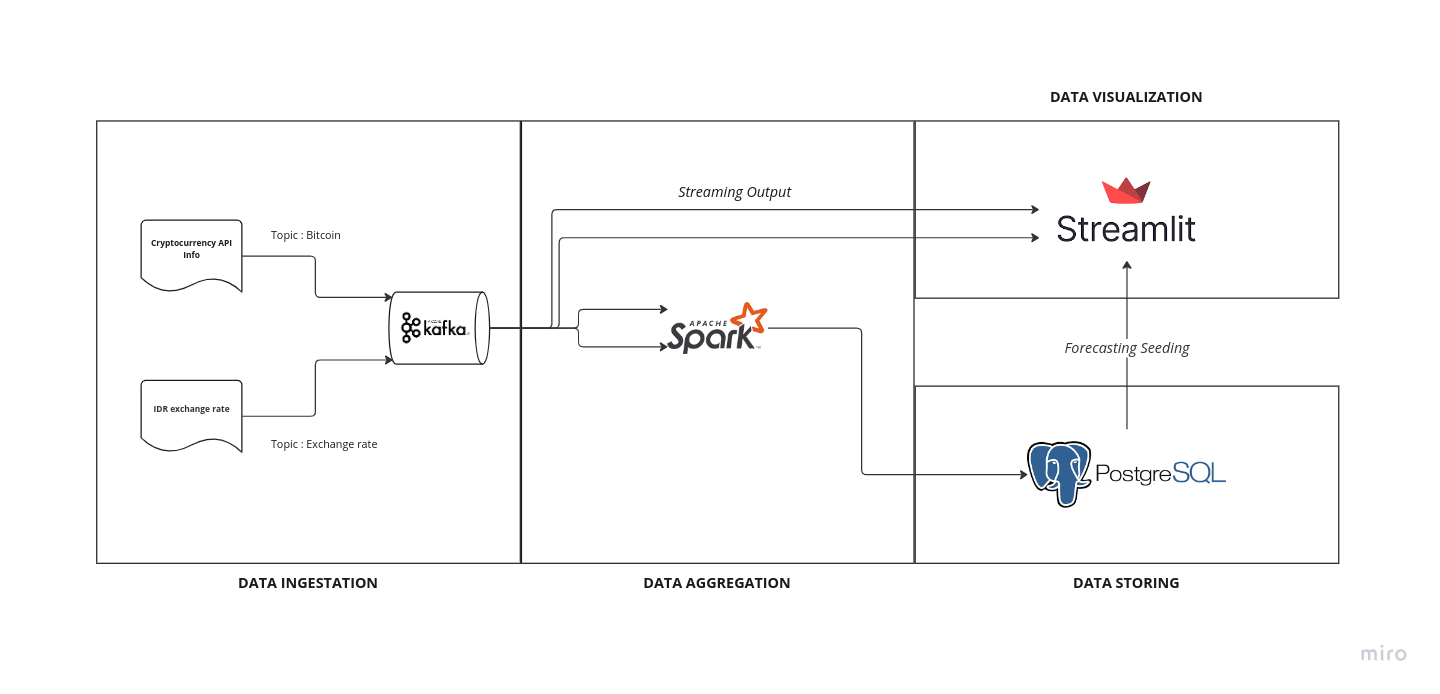
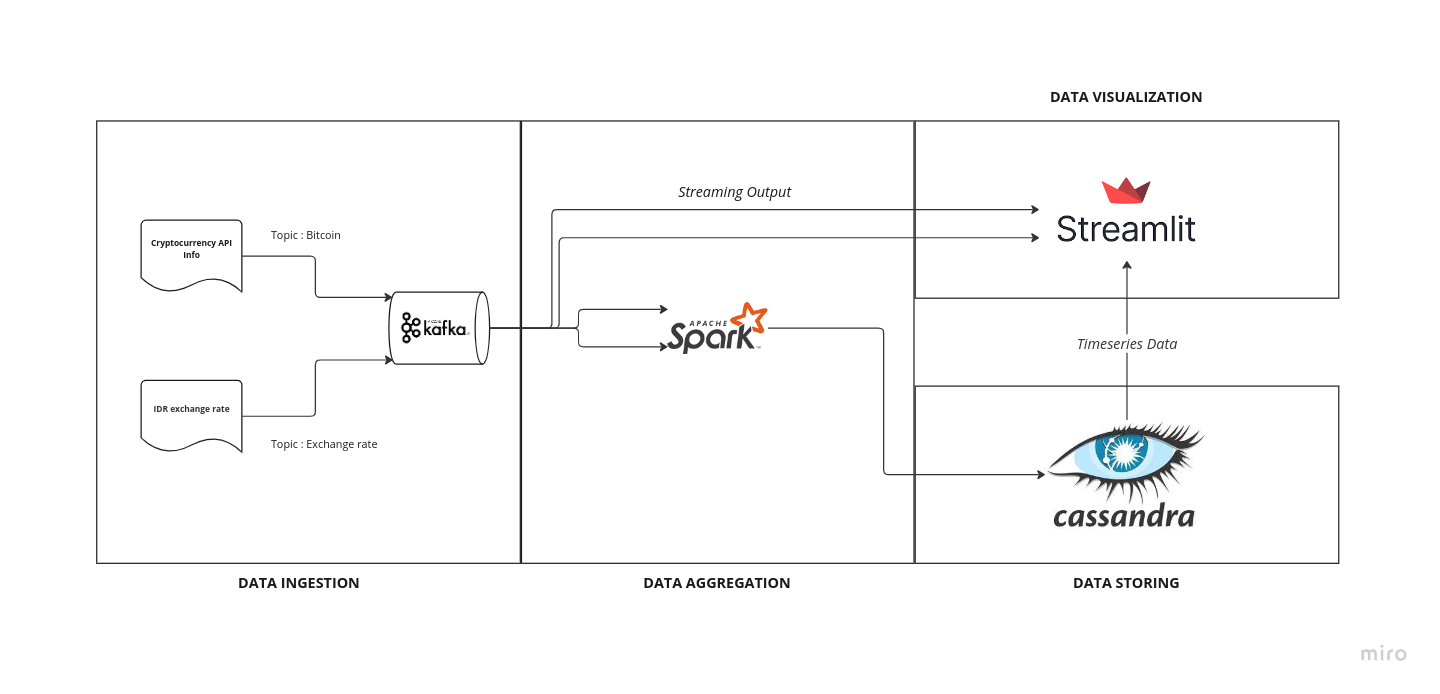
docs: update readme, add makefile for running dashboard

diff --git a/README.md b/README.md
@@ -15,6 +15,9 @@
         `make producer-btc`
         `make producer-exchange-rate`
 
-3. Run spark job to aggregrate data from kafka and write to postgres
+3. Run spark job to aggregrate data from kafka and write to cassandra
     
         `make spark-aggregator`
+
+4. Run the dashboard
+        `make streamlit-dashboard`
